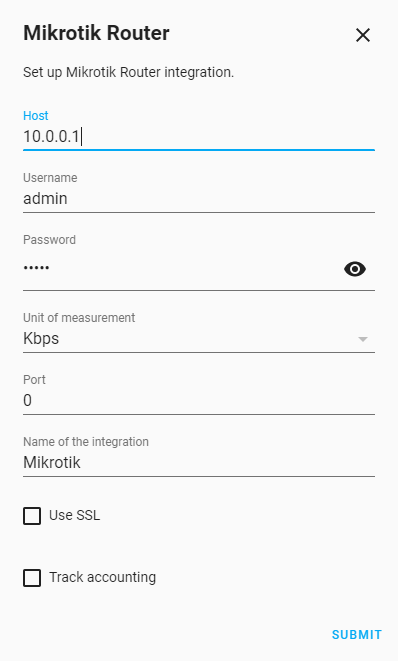
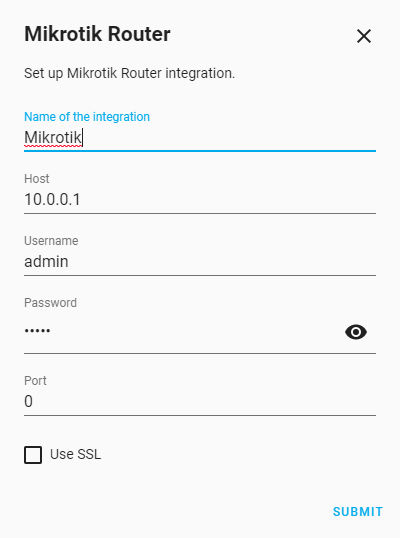
updated integration setup in docs #26

diff --git a/README.md b/README.md
@@ -47,10 +47,9 @@ Setup this integration for your Mikrotik device in Home Assistant via `Configura
 You can add this integration several times for different devices.
 
 ![Add Integration](https://raw.githubusercontent.com/tomaae/homeassistant-mikrotik_router/master/docs/assets/images/ui/setup_integration.png)
+* "Name of the integration" - Friendly name for this router
 * "Host" - Use hostname or IP
 * "Port" - Leave at 0 for defaults
-* "Name of the integration" - Friendly name for this router
-* "Unit of measurement" - Traffic sensor measurement (bps, Kbps, Mbps, B/s, KB/s, MB/s)
 
 # Configuration
 ![Integration options](https://raw.githubusercontent.com/tomaae/homeassistant-mikrotik_router/master/docs/assets/images/ui/integration_options.png)
